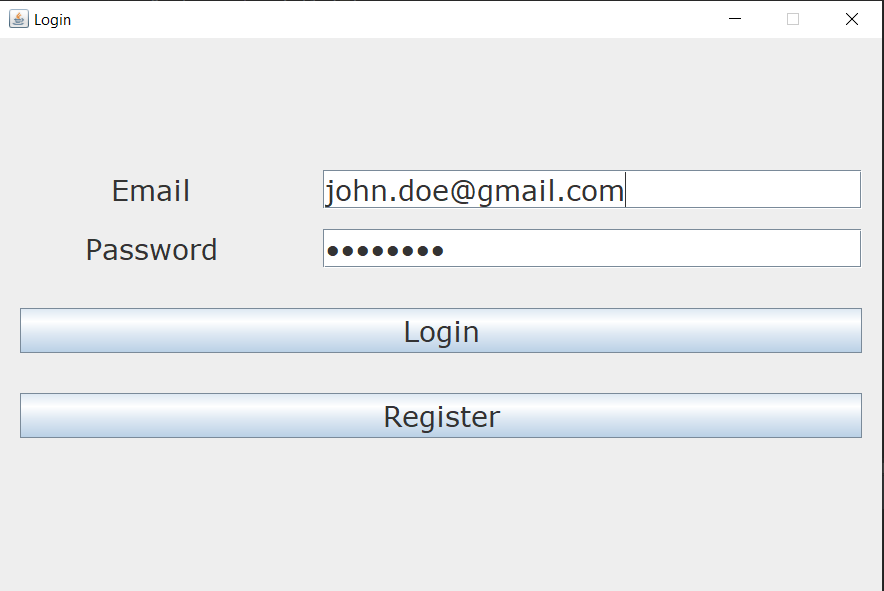
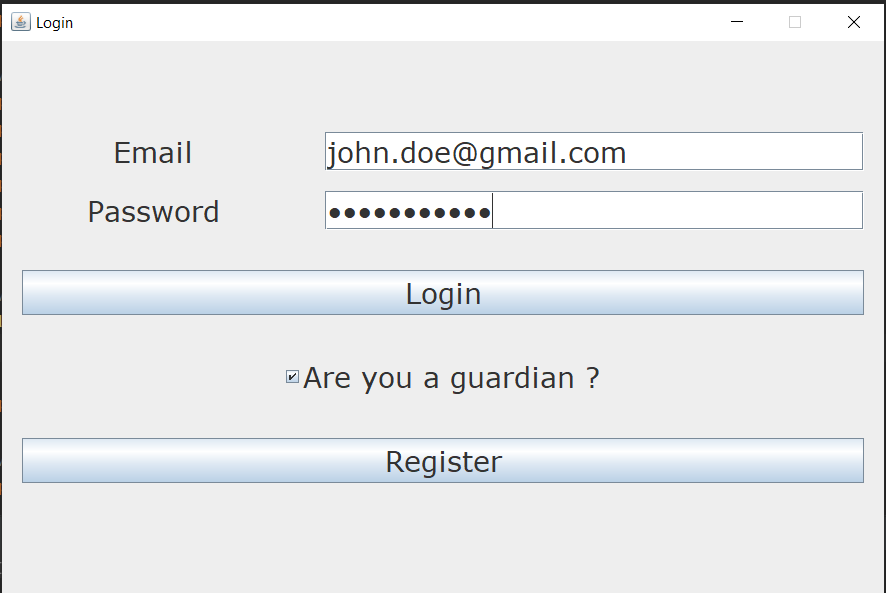
update

diff --git a/index.html b/index.html
@@ -187,6 +187,13 @@
         <img src="img_web/img_app/register.PNG" alt="img of the register page" style="width:90%">
         <p>Same as the Login page but you have to an email that doesn't exit in the database.</p>
 
+        <h2>Tutor App</h2>
+        <img src="img_web/img_app/tutor_app.PNG" alt="img of the tutor app" style="width:90%">
+        <p>If you click the checkbox then that means you want to access the tutor/guardian interface. There you can get
+            a report in a txt file of all you pupil's treatments and also see in the table all the treatments you pupil hasn't confirmed 
+            taking them.
+        </p>
+
         <h2>Menu</h2>
         <img src="img_web/img_app/menu.PNG" alt="img of the Menu" style="width:90%">
         <p>Here is our menu, on the top, you can see your next medical appointment.

diff --git a/src/TutorApp.java b/src/TutorApp.java
@@ -52,7 +52,7 @@ public class TutorApp implements ActionListener {
 
             panel_principal.add(get_patient_report);
 
-            JLabel label = new JLabel("Your patient hasn't taken the followingg treatments : ",SwingConstants.CENTER);
+            JLabel label = new JLabel("Your patient hasn't taken the following treatments : ",SwingConstants.CENTER);
             label.setFont(new Font("Verdana", Font.PLAIN, 28));
             panel_principal.add(label);
 
